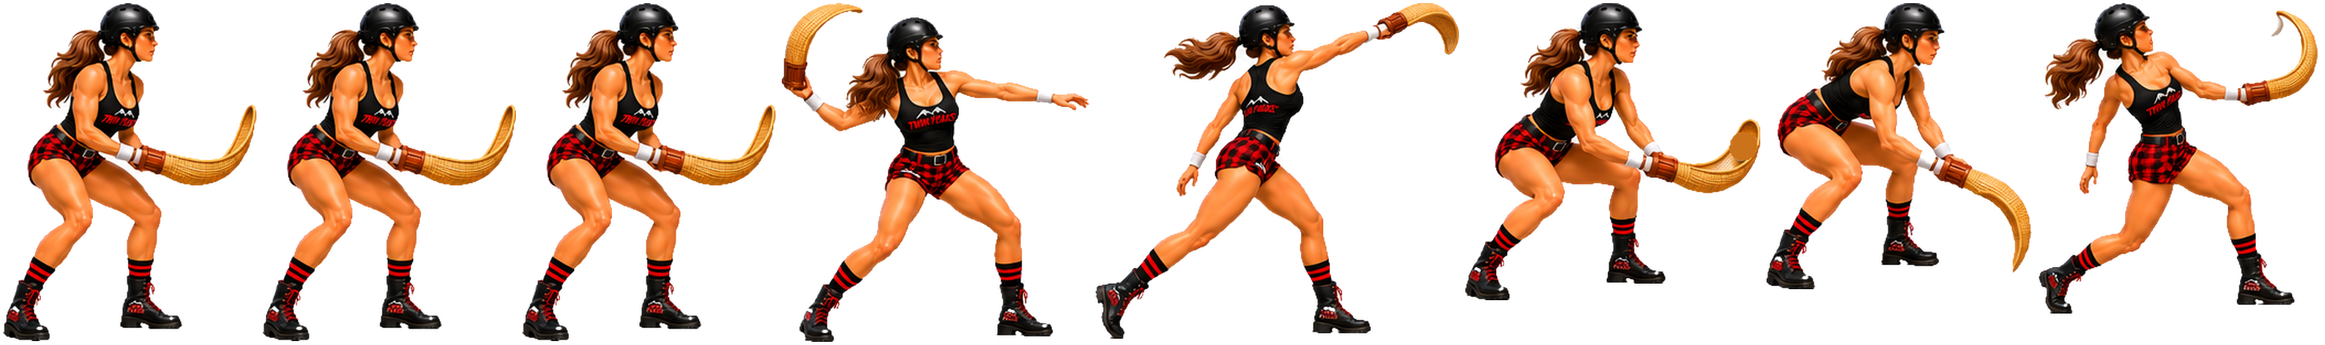
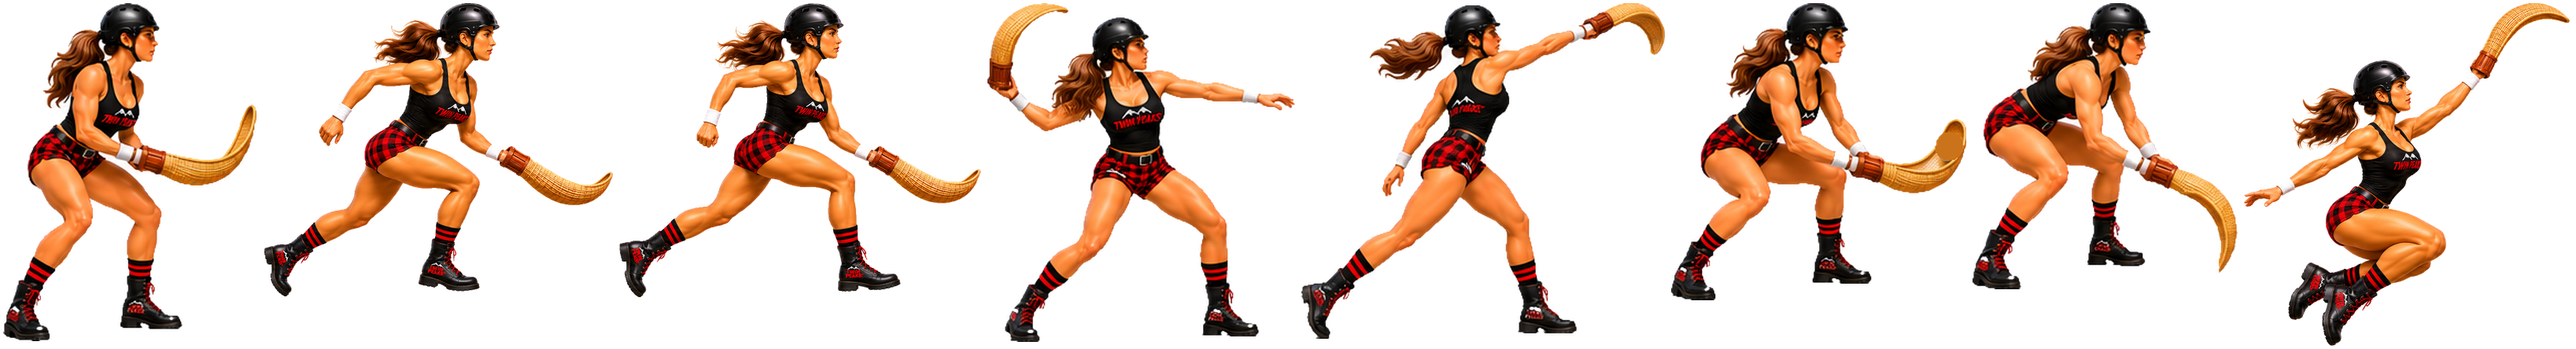
Hoots vs Peaks: Twin Peaks gets her own run, jump, release, catch and backhand poses
Claude-Session: https://claude.ai/code/session_01RXYkimbn35SjoihCfai7fS

diff --git a/index.html b/index.html
@@ -1118,7 +1118,7 @@ if (typeof module !== 'undefined') module.exports = Core;
   var SPRB = {"ready": {"x": 4, "y": 4, "w": 298, "h": 375, "ax": 108.0, "hy": 43, "jx": 108.0, "jy": 109.0, "jw": 142, "jh": 104}, "run1": {"x": 310, "y": 4, "w": 182, "h": 405, "ax": 89.5, "hy": 44, "jx": 89.5, "jy": 109.0, "jw": 129, "jh": 102}, "run2": {"x": 500, "y": 4, "w": 173, "h": 397, "ax": 87.5, "hy": 42, "jx": 87.5, "jy": 103.5, "jw": 127, "jh": 99}, "windup": {"x": 681, "y": 4, "w": 336, "h": 398, "ax": 108.5, "hy": 44, "jx": 108.5, "jy": 116.5, "jw": 127, "jh": 113}, "release": {"x": 1025, "y": 4, "w": 294, "h": 436, "ax": 82.5, "hy": 77, "jx": 82.5, "jy": 141.5, "jw": 133, "jh": 129}, "catch": {"x": 1327, "y": 4, "w": 238, "h": 542, "ax": 124.0, "hy": 168, "jx": 124.0, "jy": 230.5, "jw": 136, "jh": 133}, "backhand": {"x": 1573, "y": 4, "w": 350, "h": 368, "ax": 130.0, "hy": 46, "jx": 130.0, "jy": 110.0, "jw": 120, "jh": 110}, "jump": {"x": 1931, "y": 4, "w": 215, "h": 413, "ax": 83.0, "hy": 140, "jx": 83.0, "jy": 199.0, "jw": 132, "jh": 124}};
   var SPR = {"ready": {"x": 4, "y": 4, "w": 390, "h": 430, "ax": 121.6, "hx": 172.5, "hy": 44, "hw": 67}, "run1": {"x": 402, "y": 4, "w": 337, "h": 415, "ax": 213.9, "hx": 270.5, "hy": 48, "hw": 69}, "run2": {"x": 747, "y": 4, "w": 332, "h": 415, "ax": 211.0, "hx": 260.0, "hy": 47, "hw": 68}, "windup": {"x": 1087, "y": 4, "w": 543, "h": 407, "ax": 313.6, "hx": 301.0, "hy": 50, "hw": 64}, "release": {"x": 1638, "y": 4, "w": 468, "h": 457, "ax": 206.3, "hx": 209.5, "hy": 84, "hw": 65}, "catch": {"x": 2114, "y": 4, "w": 333, "h": 485, "ax": 153.5, "hx": 164.0, "hy": 92, "hw": 68}, "backhand": {"x": 2455, "y": 4, "w": 472, "h": 407, "ax": 262.3, "hx": 230.0, "hy": 54, "hw": 68}, "jump": {"x": 2935, "y": 4, "w": 381, "h": 392, "ax": 121.9, "hx": 125.5, "hy": 85, "hw": 67}};
   var sprImg = null, sprSheets = {};
-  var HV = {"hoots-side":{"ready":{"x":4,"y":4,"w":390,"h":430,"ax":101.5,"hx":160.4,"hy":26,"hw":64,"jx":160.4,"jy":137.6,"jw":120,"jh":100,"px":350,"py":172},"run1":{"x":402,"y":4,"w":328,"h":439,"ax":160.5,"hx":187.8,"hy":37,"hw":64,"jx":187.8,"jy":140.5,"jw":120,"jh":100},"run2":{"x":738,"y":4,"w":320,"h":447,"ax":22.5,"hx":193.4,"hy":33,"hw":64,"jx":193.4,"jy":143.0,"jw":120,"jh":100},"windup":{"x":1066,"y":4,"w":533,"h":440,"ax":288.0,"hx":342.6,"hy":26,"hw":64,"jx":342.6,"jy":140.8,"jw":120,"jh":100},"release":{"x":1607,"y":4,"w":456,"h":487,"ax":185.5,"hx":189.1,"hy":67,"hw":64,"jx":189.1,"jy":155.8,"jw":120,"jh":100},"catch":{"x":2071,"y":4,"w":333,"h":449,"ax":130.0,"hx":143.7,"hy":60,"hw":64,"jx":143.7,"jy":143.7,"jw":120,"jh":100,"px":290,"py":58},"backhand":{"x":2412,"y":4,"w":487,"h":386,"ax":196.5,"hx":259.9,"hy":23,"hw":64,"jx":259.9,"jy":123.5,"jw":120,"jh":100},"jump":{"x":2907,"y":4,"w":371,"h":376,"ax":120.2,"hx":106.2,"hy":50,"hw":64,"jx":106.2,"jy":120.3,"jw":120,"jh":100}},"hoots-back":{"ready":{"x":4,"y":4,"w":291,"h":375,"ax":119.5,"hx":120.4,"hy":22,"hw":64,"jx":120.4,"jy":120.0,"jw":120,"jh":100,"px":268,"py":236},"run1":{"x":303,"y":4,"w":176,"h":410,"ax":75.0,"hx":87.9,"hy":24,"hw":64,"jx":87.9,"jy":131.2,"jw":120,"jh":100},"run2":{"x":487,"y":4,"w":173,"h":392,"ax":71.5,"hx":95.6,"hy":23,"hw":64,"jx":95.6,"jy":125.4,"jw":120,"jh":100},"windup":{"x":668,"y":4,"w":313,"h":389,"ax":146.5,"hx":143.5,"hy":23,"hw":64,"jx":143.5,"jy":124.5,"jw":120,"jh":100},"release":{"x":989,"y":4,"w":293,"h":426,"ax":110.0,"hx":87.4,"hy":49,"hw":64,"jx":87.4,"jy":136.3,"jw":120,"jh":100},"catch":{"x":1290,"y":4,"w":224,"h":523,"ax":93.5,"hx":106.4,"hy":149,"hw":64,"jx":106.4,"jy":167.4,"jw":120,"jh":100,"px":184,"py":44},"backhand":{"x":1522,"y":4,"w":343,"h":352,"ax":149.0,"hx":142.0,"hy":21,"hw":64,"jx":142.0,"jy":112.6,"jw":120,"jh":100},"jump":{"x":1873,"y":4,"w":205,"h":402,"ax":73.5,"hx":76.4,"hy":121,"hw":64,"jx":76.4,"jy":128.6,"jw":120,"jh":100}},"peaks-side":{"ready":{"x":4,"y":4,"w":322,"h":430,"ax":113.0,"hx":144.6,"hy":26,"hw":64,"jx":144.6,"jy":137.6,"jw":120,"jh":100,"px":287,"py":168},"run1":{"x":334,"y":4,"w":322,"h":430,"ax":113.0,"hx":144.6,"hy":26,"hw":64,"jx":144.6,"jy":137.6,"jw":120,"jh":100,"px":287,"py":168},"run2":{"x":664,"y":4,"w":322,"h":430,"ax":113.0,"hx":144.6,"hy":26,"hw":64,"jx":144.6,"jy":137.6,"jw":120,"jh":100,"px":287,"py":168},"windup":{"x":994,"y":4,"w":391,"h":431,"ax":183.0,"hx":177.7,"hy":44,"hw":64,"jx":177.7,"jy":137.9,"jw":120,"jh":100},"release":{"x":1393,"y":4,"w":462,"h":427,"ax":179.0,"hx":193.8,"hy":28,"hw":64,"jx":193.8,"jy":136.6,"jw":120,"jh":100},"catch":{"x":1863,"y":4,"w":375,"h":378,"ax":27.5,"hx":177.7,"hy":22,"hw":64,"jx":177.7,"jy":121.0,"jw":120,"jh":100,"px":350,"py":162},"backhand":{"x":2246,"y":4,"w":337,"h":364,"ax":30.0,"hx":122.4,"hy":28,"hw":64,"jx":122.4,"jy":116.5,"jw":120,"jh":100},"jump":{"x":2591,"y":4,"w":357,"h":395,"ax":167.5,"hx":152.5,"hy":23,"hw":64,"jx":152.5,"jy":126.4,"jw":120,"jh":100,"px":287,"py":168}},"peaks-back":{"ready":{"x":4,"y":4,"w":229,"h":392,"ax":114.0,"hx":119.7,"hy":23,"hw":64,"jx":119.7,"jy":125.4,"jw":120,"jh":100,"px":206,"py":160},"run1":{"x":241,"y":4,"w":268,"h":391,"ax":101.5,"hx":146.3,"hy":23,"hw":64,"jx":146.3,"jy":125.1,"jw":120,"jh":100},"run2":{"x":517,"y":4,"w":197,"h":388,"ax":77.5,"hx":98.9,"hy":23,"hw":64,"jx":98.9,"jy":124.2,"jw":120,"jh":100},"windup":{"x":722,"y":4,"w":248,"h":414,"ax":105.5,"hx":148.1,"hy":47,"hw":64,"jx":148.1,"jy":132.5,"jw":120,"jh":100},"release":{"x":978,"y":4,"w":309,"h":402,"ax":82.5,"hx":120.4,"hy":41,"hw":64,"jx":120.4,"jy":128.6,"jw":120,"jh":100},"catch":{"x":1295,"y":4,"w":309,"h":402,"ax":82.5,"hx":120.4,"hy":41,"hw":64,"jx":120.4,"jy":128.6,"jw":120,"jh":100,"px":272,"py":30},"backhand":{"x":1612,"y":4,"w":236,"h":342,"ax":117.5,"hx":122.7,"hy":20,"hw":64,"jx":122.7,"jy":109.4,"jw":120,"jh":100},"jump":{"x":1856,"y":4,"w":309,"h":402,"ax":82.5,"hx":120.4,"hy":41,"hw":64,"jx":120.4,"jy":128.6,"jw":120,"jh":100,"px":272,"py":30}}}, hvImgs = {};
+  var HV = {"hoots-side":{"ready":{"x":4,"y":4,"w":390,"h":430,"ax":101.5,"hx":160.4,"hy":26,"hw":64,"jx":160.4,"jy":137.6,"jw":120,"jh":100,"px":350,"py":172},"run1":{"x":402,"y":4,"w":328,"h":439,"ax":160.5,"hx":187.8,"hy":37,"hw":64,"jx":187.8,"jy":140.5,"jw":120,"jh":100},"run2":{"x":738,"y":4,"w":320,"h":447,"ax":22.5,"hx":193.4,"hy":33,"hw":64,"jx":193.4,"jy":143.0,"jw":120,"jh":100},"windup":{"x":1066,"y":4,"w":533,"h":440,"ax":288.0,"hx":342.6,"hy":26,"hw":64,"jx":342.6,"jy":140.8,"jw":120,"jh":100},"release":{"x":1607,"y":4,"w":456,"h":487,"ax":185.5,"hx":189.1,"hy":67,"hw":64,"jx":189.1,"jy":155.8,"jw":120,"jh":100},"catch":{"x":2071,"y":4,"w":333,"h":449,"ax":130.0,"hx":143.7,"hy":60,"hw":64,"jx":143.7,"jy":143.7,"jw":120,"jh":100,"px":290,"py":58},"backhand":{"x":2412,"y":4,"w":487,"h":386,"ax":196.5,"hx":259.9,"hy":23,"hw":64,"jx":259.9,"jy":123.5,"jw":120,"jh":100},"jump":{"x":2907,"y":4,"w":371,"h":376,"ax":120.2,"hx":106.2,"hy":50,"hw":64,"jx":106.2,"jy":120.3,"jw":120,"jh":100}},"hoots-back":{"ready":{"x":4,"y":4,"w":291,"h":375,"ax":119.5,"hx":120.4,"hy":22,"hw":64,"jx":120.4,"jy":120.0,"jw":120,"jh":100,"px":268,"py":236},"run1":{"x":303,"y":4,"w":176,"h":410,"ax":75.0,"hx":87.9,"hy":24,"hw":64,"jx":87.9,"jy":131.2,"jw":120,"jh":100},"run2":{"x":487,"y":4,"w":173,"h":392,"ax":71.5,"hx":95.6,"hy":23,"hw":64,"jx":95.6,"jy":125.4,"jw":120,"jh":100},"windup":{"x":668,"y":4,"w":313,"h":389,"ax":146.5,"hx":143.5,"hy":23,"hw":64,"jx":143.5,"jy":124.5,"jw":120,"jh":100},"release":{"x":989,"y":4,"w":293,"h":426,"ax":110.0,"hx":87.4,"hy":49,"hw":64,"jx":87.4,"jy":136.3,"jw":120,"jh":100},"catch":{"x":1290,"y":4,"w":224,"h":523,"ax":93.5,"hx":106.4,"hy":149,"hw":64,"jx":106.4,"jy":167.4,"jw":120,"jh":100,"px":184,"py":44},"backhand":{"x":1522,"y":4,"w":343,"h":352,"ax":149.0,"hx":142.0,"hy":21,"hw":64,"jx":142.0,"jy":112.6,"jw":120,"jh":100},"jump":{"x":1873,"y":4,"w":205,"h":402,"ax":73.5,"hx":76.4,"hy":121,"hw":64,"jx":76.4,"jy":128.6,"jw":120,"jh":100}},"peaks-side":{"ready":{"x":4,"y":4,"w":322,"h":430,"ax":113.0,"hx":144.6,"hy":26,"hw":64,"jx":144.6,"jy":137.6,"jw":120,"jh":100,"px":287,"py":168},"run1":{"x":334,"y":4,"w":445,"h":373,"ax":142.0,"hx":210.1,"hy":22,"hw":64,"jx":210.1,"jy":119.4,"jw":120,"jh":100},"run2":{"x":787,"y":4,"w":460,"h":374,"ax":182.5,"hx":227.8,"hy":22,"hw":64,"jx":227.8,"jy":119.7,"jw":120,"jh":100},"windup":{"x":1255,"y":4,"w":391,"h":431,"ax":183.0,"hx":177.7,"hy":44,"hw":64,"jx":177.7,"jy":137.9,"jw":120,"jh":100},"release":{"x":1654,"y":4,"w":462,"h":427,"ax":179.0,"hx":193.8,"hy":28,"hw":64,"jx":193.8,"jy":136.6,"jw":120,"jh":100},"catch":{"x":2124,"y":4,"w":375,"h":378,"ax":27.5,"hx":177.7,"hy":22,"hw":64,"jx":177.7,"jy":121.0,"jw":120,"jh":100,"px":350,"py":162},"backhand":{"x":2507,"y":4,"w":337,"h":364,"ax":30.0,"hx":122.4,"hy":28,"hw":64,"jx":122.4,"jy":116.5,"jw":120,"jh":100},"jump":{"x":2852,"y":4,"w":414,"h":436,"ax":151.6,"hx":146.7,"hy":99,"hw":64,"jx":146.7,"jy":139.5,"jw":120,"jh":100}},"peaks-back":{"ready":{"x":4,"y":4,"w":229,"h":392,"ax":114.0,"hx":119.7,"hy":23,"hw":64,"jx":119.7,"jy":125.4,"jw":120,"jh":100,"px":206,"py":160},"run1":{"x":241,"y":4,"w":268,"h":391,"ax":101.5,"hx":146.3,"hy":23,"hw":64,"jx":146.3,"jy":125.1,"jw":120,"jh":100},"run2":{"x":517,"y":4,"w":197,"h":388,"ax":77.5,"hx":98.9,"hy":23,"hw":64,"jx":98.9,"jy":124.2,"jw":120,"jh":100},"windup":{"x":722,"y":4,"w":248,"h":414,"ax":105.5,"hx":148.1,"hy":47,"hw":64,"jx":148.1,"jy":132.5,"jw":120,"jh":100},"release":{"x":978,"y":4,"w":250,"h":415,"ax":172.0,"hx":149.2,"hy":25,"hw":64,"jx":149.2,"jy":132.8,"jw":120,"jh":100},"catch":{"x":1236,"y":4,"w":190,"h":564,"ax":94.5,"hx":88.7,"hy":167,"hw":64,"jx":88.7,"jy":180.5,"jw":120,"jh":100,"px":137,"py":40},"backhand":{"x":1434,"y":4,"w":394,"h":364,"ax":249.0,"hx":159.6,"hy":22,"hw":64,"jx":159.6,"jy":116.5,"jw":120,"jh":100},"jump":{"x":1836,"y":4,"w":257,"h":495,"ax":114.7,"hx":111.8,"hy":151,"hw":64,"jx":111.8,"jy":158.4,"jw":120,"jh":100}}}, hvImgs = {};
   function hvSheet(team) {                                         // each side has its own painted sheet for each camera; nothing is recolored
     var k = HVT[team] + (VIEW3 ? '-back' : '-side'), im = hvImgs[k];
     if (!im) { im = hvImgs[k] = new Image(); im.src = k + '.png'; }

diff --git a/original/index.html b/original/index.html
@@ -1117,7 +1117,7 @@ if (typeof module !== 'undefined') module.exports = Core;
   var SPRB = {"ready": {"x": 4, "y": 4, "w": 298, "h": 375, "ax": 108.0, "hy": 43, "jx": 108.0, "jy": 109.0, "jw": 142, "jh": 104}, "run1": {"x": 310, "y": 4, "w": 182, "h": 405, "ax": 89.5, "hy": 44, "jx": 89.5, "jy": 109.0, "jw": 129, "jh": 102}, "run2": {"x": 500, "y": 4, "w": 173, "h": 397, "ax": 87.5, "hy": 42, "jx": 87.5, "jy": 103.5, "jw": 127, "jh": 99}, "windup": {"x": 681, "y": 4, "w": 336, "h": 398, "ax": 108.5, "hy": 44, "jx": 108.5, "jy": 116.5, "jw": 127, "jh": 113}, "release": {"x": 1025, "y": 4, "w": 294, "h": 436, "ax": 82.5, "hy": 77, "jx": 82.5, "jy": 141.5, "jw": 133, "jh": 129}, "catch": {"x": 1327, "y": 4, "w": 238, "h": 542, "ax": 124.0, "hy": 168, "jx": 124.0, "jy": 230.5, "jw": 136, "jh": 133}, "backhand": {"x": 1573, "y": 4, "w": 350, "h": 368, "ax": 130.0, "hy": 46, "jx": 130.0, "jy": 110.0, "jw": 120, "jh": 110}, "jump": {"x": 1931, "y": 4, "w": 215, "h": 413, "ax": 83.0, "hy": 140, "jx": 83.0, "jy": 199.0, "jw": 132, "jh": 124}};
   var SPR = {"ready": {"x": 4, "y": 4, "w": 390, "h": 430, "ax": 121.6, "hx": 172.5, "hy": 44, "hw": 67}, "run1": {"x": 402, "y": 4, "w": 337, "h": 415, "ax": 213.9, "hx": 270.5, "hy": 48, "hw": 69}, "run2": {"x": 747, "y": 4, "w": 332, "h": 415, "ax": 211.0, "hx": 260.0, "hy": 47, "hw": 68}, "windup": {"x": 1087, "y": 4, "w": 543, "h": 407, "ax": 313.6, "hx": 301.0, "hy": 50, "hw": 64}, "release": {"x": 1638, "y": 4, "w": 468, "h": 457, "ax": 206.3, "hx": 209.5, "hy": 84, "hw": 65}, "catch": {"x": 2114, "y": 4, "w": 333, "h": 485, "ax": 153.5, "hx": 164.0, "hy": 92, "hw": 68}, "backhand": {"x": 2455, "y": 4, "w": 472, "h": 407, "ax": 262.3, "hx": 230.0, "hy": 54, "hw": 68}, "jump": {"x": 2935, "y": 4, "w": 381, "h": 392, "ax": 121.9, "hx": 125.5, "hy": 85, "hw": 67}};
   var sprImg = null, sprSheets = {};
-  var HV = {"hoots-side":{"ready":{"x":4,"y":4,"w":390,"h":430,"ax":101.5,"hx":160.4,"hy":26,"hw":64,"jx":160.4,"jy":137.6,"jw":120,"jh":100,"px":350,"py":172},"run1":{"x":402,"y":4,"w":328,"h":439,"ax":160.5,"hx":187.8,"hy":37,"hw":64,"jx":187.8,"jy":140.5,"jw":120,"jh":100},"run2":{"x":738,"y":4,"w":320,"h":447,"ax":22.5,"hx":193.4,"hy":33,"hw":64,"jx":193.4,"jy":143.0,"jw":120,"jh":100},"windup":{"x":1066,"y":4,"w":533,"h":440,"ax":288.0,"hx":342.6,"hy":26,"hw":64,"jx":342.6,"jy":140.8,"jw":120,"jh":100},"release":{"x":1607,"y":4,"w":456,"h":487,"ax":185.5,"hx":189.1,"hy":67,"hw":64,"jx":189.1,"jy":155.8,"jw":120,"jh":100},"catch":{"x":2071,"y":4,"w":333,"h":449,"ax":130.0,"hx":143.7,"hy":60,"hw":64,"jx":143.7,"jy":143.7,"jw":120,"jh":100,"px":290,"py":58},"backhand":{"x":2412,"y":4,"w":487,"h":386,"ax":196.5,"hx":259.9,"hy":23,"hw":64,"jx":259.9,"jy":123.5,"jw":120,"jh":100},"jump":{"x":2907,"y":4,"w":371,"h":376,"ax":120.2,"hx":106.2,"hy":50,"hw":64,"jx":106.2,"jy":120.3,"jw":120,"jh":100}},"hoots-back":{"ready":{"x":4,"y":4,"w":291,"h":375,"ax":119.5,"hx":120.4,"hy":22,"hw":64,"jx":120.4,"jy":120.0,"jw":120,"jh":100,"px":268,"py":236},"run1":{"x":303,"y":4,"w":176,"h":410,"ax":75.0,"hx":87.9,"hy":24,"hw":64,"jx":87.9,"jy":131.2,"jw":120,"jh":100},"run2":{"x":487,"y":4,"w":173,"h":392,"ax":71.5,"hx":95.6,"hy":23,"hw":64,"jx":95.6,"jy":125.4,"jw":120,"jh":100},"windup":{"x":668,"y":4,"w":313,"h":389,"ax":146.5,"hx":143.5,"hy":23,"hw":64,"jx":143.5,"jy":124.5,"jw":120,"jh":100},"release":{"x":989,"y":4,"w":293,"h":426,"ax":110.0,"hx":87.4,"hy":49,"hw":64,"jx":87.4,"jy":136.3,"jw":120,"jh":100},"catch":{"x":1290,"y":4,"w":224,"h":523,"ax":93.5,"hx":106.4,"hy":149,"hw":64,"jx":106.4,"jy":167.4,"jw":120,"jh":100,"px":184,"py":44},"backhand":{"x":1522,"y":4,"w":343,"h":352,"ax":149.0,"hx":142.0,"hy":21,"hw":64,"jx":142.0,"jy":112.6,"jw":120,"jh":100},"jump":{"x":1873,"y":4,"w":205,"h":402,"ax":73.5,"hx":76.4,"hy":121,"hw":64,"jx":76.4,"jy":128.6,"jw":120,"jh":100}},"peaks-side":{"ready":{"x":4,"y":4,"w":322,"h":430,"ax":113.0,"hx":144.6,"hy":26,"hw":64,"jx":144.6,"jy":137.6,"jw":120,"jh":100,"px":287,"py":168},"run1":{"x":334,"y":4,"w":322,"h":430,"ax":113.0,"hx":144.6,"hy":26,"hw":64,"jx":144.6,"jy":137.6,"jw":120,"jh":100,"px":287,"py":168},"run2":{"x":664,"y":4,"w":322,"h":430,"ax":113.0,"hx":144.6,"hy":26,"hw":64,"jx":144.6,"jy":137.6,"jw":120,"jh":100,"px":287,"py":168},"windup":{"x":994,"y":4,"w":391,"h":431,"ax":183.0,"hx":177.7,"hy":44,"hw":64,"jx":177.7,"jy":137.9,"jw":120,"jh":100},"release":{"x":1393,"y":4,"w":462,"h":427,"ax":179.0,"hx":193.8,"hy":28,"hw":64,"jx":193.8,"jy":136.6,"jw":120,"jh":100},"catch":{"x":1863,"y":4,"w":375,"h":378,"ax":27.5,"hx":177.7,"hy":22,"hw":64,"jx":177.7,"jy":121.0,"jw":120,"jh":100,"px":350,"py":162},"backhand":{"x":2246,"y":4,"w":337,"h":364,"ax":30.0,"hx":122.4,"hy":28,"hw":64,"jx":122.4,"jy":116.5,"jw":120,"jh":100},"jump":{"x":2591,"y":4,"w":357,"h":395,"ax":167.5,"hx":152.5,"hy":23,"hw":64,"jx":152.5,"jy":126.4,"jw":120,"jh":100,"px":287,"py":168}},"peaks-back":{"ready":{"x":4,"y":4,"w":229,"h":392,"ax":114.0,"hx":119.7,"hy":23,"hw":64,"jx":119.7,"jy":125.4,"jw":120,"jh":100,"px":206,"py":160},"run1":{"x":241,"y":4,"w":268,"h":391,"ax":101.5,"hx":146.3,"hy":23,"hw":64,"jx":146.3,"jy":125.1,"jw":120,"jh":100},"run2":{"x":517,"y":4,"w":197,"h":388,"ax":77.5,"hx":98.9,"hy":23,"hw":64,"jx":98.9,"jy":124.2,"jw":120,"jh":100},"windup":{"x":722,"y":4,"w":248,"h":414,"ax":105.5,"hx":148.1,"hy":47,"hw":64,"jx":148.1,"jy":132.5,"jw":120,"jh":100},"release":{"x":978,"y":4,"w":309,"h":402,"ax":82.5,"hx":120.4,"hy":41,"hw":64,"jx":120.4,"jy":128.6,"jw":120,"jh":100},"catch":{"x":1295,"y":4,"w":309,"h":402,"ax":82.5,"hx":120.4,"hy":41,"hw":64,"jx":120.4,"jy":128.6,"jw":120,"jh":100,"px":272,"py":30},"backhand":{"x":1612,"y":4,"w":236,"h":342,"ax":117.5,"hx":122.7,"hy":20,"hw":64,"jx":122.7,"jy":109.4,"jw":120,"jh":100},"jump":{"x":1856,"y":4,"w":309,"h":402,"ax":82.5,"hx":120.4,"hy":41,"hw":64,"jx":120.4,"jy":128.6,"jw":120,"jh":100,"px":272,"py":30}}}, hvImgs = {};
+  var HV = {"hoots-side":{"ready":{"x":4,"y":4,"w":390,"h":430,"ax":101.5,"hx":160.4,"hy":26,"hw":64,"jx":160.4,"jy":137.6,"jw":120,"jh":100,"px":350,"py":172},"run1":{"x":402,"y":4,"w":328,"h":439,"ax":160.5,"hx":187.8,"hy":37,"hw":64,"jx":187.8,"jy":140.5,"jw":120,"jh":100},"run2":{"x":738,"y":4,"w":320,"h":447,"ax":22.5,"hx":193.4,"hy":33,"hw":64,"jx":193.4,"jy":143.0,"jw":120,"jh":100},"windup":{"x":1066,"y":4,"w":533,"h":440,"ax":288.0,"hx":342.6,"hy":26,"hw":64,"jx":342.6,"jy":140.8,"jw":120,"jh":100},"release":{"x":1607,"y":4,"w":456,"h":487,"ax":185.5,"hx":189.1,"hy":67,"hw":64,"jx":189.1,"jy":155.8,"jw":120,"jh":100},"catch":{"x":2071,"y":4,"w":333,"h":449,"ax":130.0,"hx":143.7,"hy":60,"hw":64,"jx":143.7,"jy":143.7,"jw":120,"jh":100,"px":290,"py":58},"backhand":{"x":2412,"y":4,"w":487,"h":386,"ax":196.5,"hx":259.9,"hy":23,"hw":64,"jx":259.9,"jy":123.5,"jw":120,"jh":100},"jump":{"x":2907,"y":4,"w":371,"h":376,"ax":120.2,"hx":106.2,"hy":50,"hw":64,"jx":106.2,"jy":120.3,"jw":120,"jh":100}},"hoots-back":{"ready":{"x":4,"y":4,"w":291,"h":375,"ax":119.5,"hx":120.4,"hy":22,"hw":64,"jx":120.4,"jy":120.0,"jw":120,"jh":100,"px":268,"py":236},"run1":{"x":303,"y":4,"w":176,"h":410,"ax":75.0,"hx":87.9,"hy":24,"hw":64,"jx":87.9,"jy":131.2,"jw":120,"jh":100},"run2":{"x":487,"y":4,"w":173,"h":392,"ax":71.5,"hx":95.6,"hy":23,"hw":64,"jx":95.6,"jy":125.4,"jw":120,"jh":100},"windup":{"x":668,"y":4,"w":313,"h":389,"ax":146.5,"hx":143.5,"hy":23,"hw":64,"jx":143.5,"jy":124.5,"jw":120,"jh":100},"release":{"x":989,"y":4,"w":293,"h":426,"ax":110.0,"hx":87.4,"hy":49,"hw":64,"jx":87.4,"jy":136.3,"jw":120,"jh":100},"catch":{"x":1290,"y":4,"w":224,"h":523,"ax":93.5,"hx":106.4,"hy":149,"hw":64,"jx":106.4,"jy":167.4,"jw":120,"jh":100,"px":184,"py":44},"backhand":{"x":1522,"y":4,"w":343,"h":352,"ax":149.0,"hx":142.0,"hy":21,"hw":64,"jx":142.0,"jy":112.6,"jw":120,"jh":100},"jump":{"x":1873,"y":4,"w":205,"h":402,"ax":73.5,"hx":76.4,"hy":121,"hw":64,"jx":76.4,"jy":128.6,"jw":120,"jh":100}},"peaks-side":{"ready":{"x":4,"y":4,"w":322,"h":430,"ax":113.0,"hx":144.6,"hy":26,"hw":64,"jx":144.6,"jy":137.6,"jw":120,"jh":100,"px":287,"py":168},"run1":{"x":334,"y":4,"w":445,"h":373,"ax":142.0,"hx":210.1,"hy":22,"hw":64,"jx":210.1,"jy":119.4,"jw":120,"jh":100},"run2":{"x":787,"y":4,"w":460,"h":374,"ax":182.5,"hx":227.8,"hy":22,"hw":64,"jx":227.8,"jy":119.7,"jw":120,"jh":100},"windup":{"x":1255,"y":4,"w":391,"h":431,"ax":183.0,"hx":177.7,"hy":44,"hw":64,"jx":177.7,"jy":137.9,"jw":120,"jh":100},"release":{"x":1654,"y":4,"w":462,"h":427,"ax":179.0,"hx":193.8,"hy":28,"hw":64,"jx":193.8,"jy":136.6,"jw":120,"jh":100},"catch":{"x":2124,"y":4,"w":375,"h":378,"ax":27.5,"hx":177.7,"hy":22,"hw":64,"jx":177.7,"jy":121.0,"jw":120,"jh":100,"px":350,"py":162},"backhand":{"x":2507,"y":4,"w":337,"h":364,"ax":30.0,"hx":122.4,"hy":28,"hw":64,"jx":122.4,"jy":116.5,"jw":120,"jh":100},"jump":{"x":2852,"y":4,"w":414,"h":436,"ax":151.6,"hx":146.7,"hy":99,"hw":64,"jx":146.7,"jy":139.5,"jw":120,"jh":100}},"peaks-back":{"ready":{"x":4,"y":4,"w":229,"h":392,"ax":114.0,"hx":119.7,"hy":23,"hw":64,"jx":119.7,"jy":125.4,"jw":120,"jh":100,"px":206,"py":160},"run1":{"x":241,"y":4,"w":268,"h":391,"ax":101.5,"hx":146.3,"hy":23,"hw":64,"jx":146.3,"jy":125.1,"jw":120,"jh":100},"run2":{"x":517,"y":4,"w":197,"h":388,"ax":77.5,"hx":98.9,"hy":23,"hw":64,"jx":98.9,"jy":124.2,"jw":120,"jh":100},"windup":{"x":722,"y":4,"w":248,"h":414,"ax":105.5,"hx":148.1,"hy":47,"hw":64,"jx":148.1,"jy":132.5,"jw":120,"jh":100},"release":{"x":978,"y":4,"w":250,"h":415,"ax":172.0,"hx":149.2,"hy":25,"hw":64,"jx":149.2,"jy":132.8,"jw":120,"jh":100},"catch":{"x":1236,"y":4,"w":190,"h":564,"ax":94.5,"hx":88.7,"hy":167,"hw":64,"jx":88.7,"jy":180.5,"jw":120,"jh":100,"px":137,"py":40},"backhand":{"x":1434,"y":4,"w":394,"h":364,"ax":249.0,"hx":159.6,"hy":22,"hw":64,"jx":159.6,"jy":116.5,"jw":120,"jh":100},"jump":{"x":1836,"y":4,"w":257,"h":495,"ax":114.7,"hx":111.8,"hy":151,"hw":64,"jx":111.8,"jy":158.4,"jw":120,"jh":100}}}, hvImgs = {};
   function hvSheet(team) {                                         // each side has its own painted sheet for each camera; nothing is recolored
     var k = HVT[team] + (VIEW3 ? '-back' : '-side'), im = hvImgs[k];
     if (!im) { im = hvImgs[k] = new Image(); im.src = k + '.png'; }
